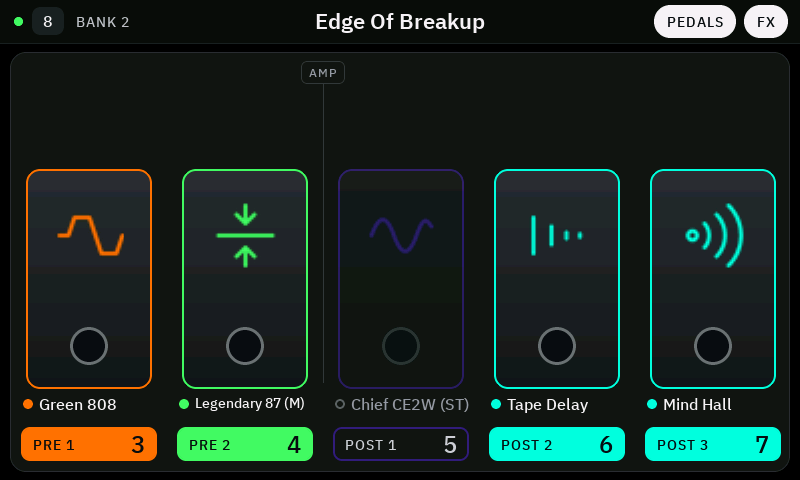
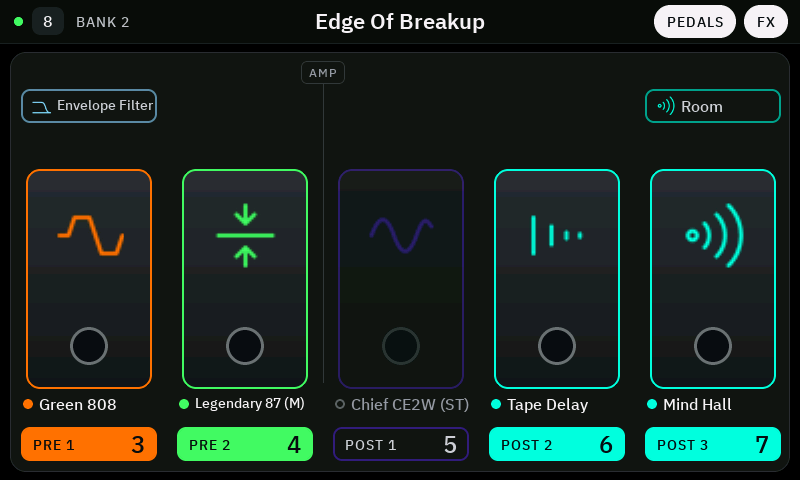
1.22.0 (not released): the pedal view names a slot's other effect, the tempo dialog closes by itself
Pedal view: a slot with a second effect shows the one that waits in a field above the pedal (symbol and name,
outlined in its colour, dimmed while the slot is off); a tap swaps A and B, a long press opens the FX editor.
In the reverb's slot the field sits under the reverb switch's setting.

Tempo dialog: hidden 5 s after it came up, after the last touch and after the last change. The controller
sends "tempo screen off" only if it switched the Nano's tempo screen on itself.

Changed region(s): [[0.0312, 0.1875, 0.2188, 0.2812], [0.8125, 0.1875, 0.9688, 0.2812]]

diff --git a/main/ui.c b/main/ui.c
@@ -83,6 +83,7 @@ static lv_obj_t *s_gig_bar, *s_gig_dot, *s_gig_number, *s_gig_bank, *s_gig_name,
 static lv_obj_t *s_pedals, *s_pv_slot[NANO_FX_SLOTS], *s_pv_image[NANO_FX_SLOTS], *s_pv_drawn[NANO_FX_SLOTS], *s_pv_icon[NANO_FX_SLOTS],
                 *s_pv_led[NANO_FX_SLOTS], *s_pv_name[NANO_FX_SLOTS], *s_pv_key[NANO_FX_SLOTS], *s_pv_cap[NANO_FX_SLOTS], *s_pv_num[NANO_FX_SLOTS],
                 *s_pv_rp, *s_pv_rp_name, *s_pv_rp_num;   // above the reverb's pedal: the setting the reverb switch is on
+static lv_obj_t *s_pv_ab[NANO_FX_SLOTS], *s_pv_ab_icon[NANO_FX_SLOTS], *s_pv_ab_name[NANO_FX_SLOTS];   // above a pedal: the slot's other effect (A / B)
 static bool s_pedal_view;     // chosen (kept by the controller)
 static bool s_pedals_shown;   // on the screen now: chosen, full screen, FX mode
 static lv_obj_t *s_capture_title;
@@ -111,7 +112,8 @@ static bool s_listen_pending;
 static lv_obj_t *s_tempo_button, *s_tempo_button_icon, *s_tempo_button_text;
 static lv_obj_t *s_metro, *s_metro_bpm, *s_metro_scope[2], *s_metro_switch, *s_metro_vol, *s_metro_vol_text, *s_metro_sig;
 static lv_obj_t *s_metro_note[4], *s_metro_sound[2], *s_metro_dots, *s_metro_hint;
-static lv_timer_t *s_metro_beat_timer;
+static lv_timer_t *s_metro_beat_timer, *s_metro_hide_timer;
+static uint32_t s_metro_news_tick;   // when the dialog came up or last got news (see metro_hide)
 static ui_tempo_t s_tempo_ui = { .tempo = 120, .muted = true, .time_sig = 2 };
 static int s_metro_beat;
 static uint32_t s_metro_taps[6];
@@ -923,6 +925,13 @@ static void pedals_show(bool shown)
     for (int i = 0; i < TILES; i++) place_tile(i);
 }
 
+// A tap on the field above a pedal: the slot's other effect (as A | B in the FX editor).
+static void on_pedal_swap(lv_event_t *e)
+{
+    if (lv_tick_elaps(s_gesture_tick) < 150) return;   // end of a swipe, not a tap
+    send('[', (int)(intptr_t)lv_event_get_user_data(e));
+}
+
 static void build_pedals(lv_obj_t *parent)
 {
     s_pedals = lv_obj_create(parent);
@@ -1024,6 +1033,31 @@ static void build_pedals(lv_obj_t *parent)
         s_pv_num[slot] = label(s_pv_key[slot], &ui_font_24, TEXT);
         lv_obj_align(s_pv_num[slot], LV_ALIGN_RIGHT_MID, -10, 0);
     }
+    // A slot with a second effect: the one that waits, above the pedal of the one that runs - a field like the
+    // footswitches', outlined in the waiting effect's colour, with its symbol and name. A tap swaps the two.
+    for (int slot = 0; slot < NANO_FX_SLOTS; slot++) {
+        lv_obj_t *field = lv_obj_create(s_pedals);
+        s_pv_ab[slot] = field;
+        lv_obj_remove_style_all(field);
+        lv_obj_set_size(field, PV_SLOT_W - 20, 34);
+        lv_obj_set_style_radius(field, 9, 0);
+        lv_obj_set_style_border_width(field, 2, 0);
+        lv_obj_set_scrollable(field, false);
+        lv_obj_set_clickable(field, true);
+        lv_obj_set_ext_click_area(field, 8);
+        lv_obj_set_style_opa(field, 190, LV_STATE_PRESSED);
+        lv_obj_add_event_cb(field, on_pedal_swap, LV_EVENT_SHORT_CLICKED, (void *)(intptr_t)slot);
+        lv_obj_add_event_cb(field, on_tile_long, LV_EVENT_LONG_PRESSED, (void *)(intptr_t)(2 + slot));
+        s_pv_ab_icon[slot] = lv_image_create(field);
+        lv_image_set_scale(s_pv_ab_icon[slot], 150);   // the 36 px symbol at 21 px
+        lv_obj_set_style_image_recolor_opa(s_pv_ab_icon[slot], LV_OPA_COVER, 0);
+        lv_obj_align(s_pv_ab_icon[slot], LV_ALIGN_LEFT_MID, 1, 0);
+        s_pv_ab_name[slot] = label(field, &ui_font_16, TEXT);
+        lv_obj_set_size(s_pv_ab_name[slot], PV_SLOT_W - 20 - 40, lv_font_get_line_height(&ui_font_16));
+        lv_label_set_long_mode(s_pv_ab_name[slot], LV_LABEL_LONG_DOT);
+        lv_obj_align(s_pv_ab_name[slot], LV_ALIGN_LEFT_MID, 34, 0);
+        lv_obj_set_hidden(field, true);
+    }
     // The reverb switch with two settings: the one that is on, above the reverb's pedal - a field like the pedals'
     // footswitches (filled while the reverb is on), with the switch's number. A tap is a press of that switch.
     s_pv_rp = lv_obj_create(s_pedals);
@@ -1109,6 +1143,26 @@ static void show_pedals(const nano_state_t *st, const ui_view_t *view)
         int p = tile_position(2 + slot);   // the footswitch that presses it (none: the slot is not on the six-field layout)
         snprintf(text, sizeof(text), "%d", p + 1);
         set_text(s_pv_num[slot], p >= 0 ? text : "");
+        // The slot's other effect (see s_pv_ab): the pedal is the one that runs, the field names the one that waits
+        bool has_b = type && view->ab_b_type[slot], b_runs = has_b && ((view->ab_active >> slot) & 1);
+        set_hidden(s_pv_ab[slot], !has_b);
+        if (has_b) {
+            uint32_t a_type = b_runs ? view->ab_a_type[slot] : type, b_type = view->ab_b_type[slot];
+            uint32_t other = b_runs ? a_type : b_type;   // (A's type is 0 until it has been read)
+            const nano_fx_model_t *waiting = nano_fx_model(other);
+            uint32_t other_color = waiting ? waiting->color : 0x8E9297;
+            const char *other_name = a_type == b_type ? (b_runs ? "1st setting" : "2nd setting") : other ? nano_fx_name(other) : "A";
+            // (the reverb's setting keeps the first row, see above)
+            lv_obj_set_pos(s_pv_ab[slot], slot * PV_SLOT_W + 10, rp && slot == rslot ? 76 : 36);
+            set_color_prop(s_pv_ab[slot], LV_STYLE_BORDER_COLOR, blend(other_color, PANEL_BG, on ? 0.60f : 0.40f));
+            set_hidden(s_pv_ab_icon[slot], waiting == NULL);
+            if (waiting) set_image(s_pv_ab_icon[slot], NANO_ICONS[waiting->icon]);
+            set_color_prop(s_pv_ab_icon[slot], LV_STYLE_IMAGE_RECOLOR, on ? other_color : blend(other_color, PANEL_BG, 0.6f));
+            lv_text_get_size(&size, other_name, &ui_font_16, 0, 0, LV_COORD_MAX, LV_TEXT_FLAG_NONE);
+            set_ptr_prop(s_pv_ab_name[slot], LV_STYLE_TEXT_FONT, size.x > PV_SLOT_W - 20 - 40 ? &ui_font_14 : &ui_font_16);
+            set_text(s_pv_ab_name[slot], other_name);
+            set_color_prop(s_pv_ab_name[slot], LV_STYLE_TEXT_COLOR, on ? 0xC8CCD1 : 0x969AA0);
+        }
     }
 }
 
@@ -1718,9 +1772,25 @@ static void build_picker(lv_obj_t *screen)
 
 static void metro(int what, int value) { send('\'', (what << 24) | (value & 0xFFFFFF)); }
 
+// The dialog goes by itself, as a volume display does: 5 s after it came up, after the last touch on the screen and
+// after the last news from the Nano. The controller is told with 10 (it leaves the Nano's own tempo screen alone).
+#define METRO_HIDE_MS 5000
+static void metro_keep(void) { s_metro_news_tick = lv_tick_get(); }
+static void metro_hide(lv_timer_t *t)
+{
+    (void)t;
+    if (lv_obj_is_hidden(s_metro)) return;
+    uint32_t idle = lv_tick_elaps(s_metro_news_tick), touch = lv_display_get_inactive_time(NULL);
+    if ((touch < idle ? touch : idle) < METRO_HIDE_MS) return;
+    lv_obj_set_hidden(s_metro, true);
+    s_tempo_ui.open = false;
+    metro(10, 0);
+}
+
 static void on_tempo_button(lv_event_t *e)
 {
     metro(0, 0);
+    metro_keep();
     s_tempo_ui.open = true;
     lv_obj_set_hidden(s_metro, false);   // at once; main confirms with ui_set_tempo
     lv_obj_move_foreground(s_metro);
@@ -1808,6 +1878,10 @@ static void metro_dots_update(void)
 void ui_set_tempo(const ui_tempo_t *t)
 {
     lvgl_port_lock(0);
+    // (news: the dialog comes up, or something in it changed - the state alone arrives every few seconds)
+    if (lv_obj_is_hidden(s_metro) || t->tempo != s_tempo_ui.tempo || t->volume_db != s_tempo_ui.volume_db || t->muted != s_tempo_ui.muted ||
+        t->global != s_tempo_ui.global || t->ext_clock != s_tempo_ui.ext_clock || t->time_sig != s_tempo_ui.time_sig ||
+        t->note_len != s_tempo_ui.note_len || t->sound != s_tempo_ui.sound) metro_keep();
     s_tempo_ui = *t;
     // the button: symbol and tempo, green while the metronome is on (filled = on)
     lv_obj_set_hidden(s_tempo_button, !t->supported);
@@ -1890,6 +1964,7 @@ static void build_metro(lv_obj_t *screen)
         lv_obj_set_style_bg_color(dot, lv_color_hex(GREEN), 0);
     }
     s_metro_beat_timer = lv_timer_create(metro_beat, 500, NULL);
+    s_metro_hide_timer = lv_timer_create(metro_hide, 250, NULL);
     lv_timer_pause(s_metro_beat_timer);
     lv_obj_t *tap = button(s_metro, 20, 198, 270, 186, on_metro_tap);
     lv_obj_remove_event_cb(tap, on_metro_tap);

diff --git a/main/main.c b/main/main.c
@@ -4133,6 +4133,7 @@ static void listen_state(void)
 // the screen active (its own tempo screen) opens the dialog without sending and brings its metronome settings.
 static nano_tempo_t s_metro = { .muted = true, .time_sig = 2 };   // the app's defaults: off, 0 dB, 4/4, 1/4, Blip
 static bool s_metro_open, s_metro_dirty;
+static bool s_metro_own;   // the controller sent "tempo screen on" itself: it also sends the "off" (not for the Nano's own screen)
 
 static bool metro_supported(void)
 {
@@ -4228,13 +4229,13 @@ static void metro_send(void)
 }
 
 // arg: what << 24 | value (24 bits, signed): 0 open, 1 close, 2 tempo x 10, 3 tempo step x 10, 4 metronome on / off,
-// 5 volume x 2 (dB), 6 time signature, 7 note, 8 sound, 9 global (1) / preset (0)
+// 5 volume x 2 (dB), 6 time signature, 7 note, 8 sound, 9 global (1) / preset (0), 10 the dialog closed by itself
 static void metro_command(int arg)
 {
     int what = (arg >> 24) & 0xFF, value = (arg << 8) >> 8;
     if (!metro_supported()) return;
     switch (what) {
-    case 0: if (s_metro_open) return; s_metro_open = true; break;
+    case 0: if (s_metro_open) return; s_metro_open = true; s_metro_own = true; break;
     case 1:
         if (!s_metro_open) return;
         s_metro_open = false;
@@ -4251,13 +4252,24 @@ static void metro_command(int arg)
     case 7: if (value >= 0 && value < NANO_NOTE_LEN_COUNT) { s_metro.note_len = value; s_metro_dirty = true; } break;
     case 8: if (value >= 0 && value < NANO_METRO_SOUND_COUNT) { s_metro.sound = value; s_metro_dirty = true; } break;
     case 9: s_state.tempo_global = value != 0; break;
+    case 10:   // the dialog went by itself (5 s without a touch or news): the Nano's own tempo screen stays as it is
+        if (!s_metro_open) return;
+        s_metro_open = false;
+        if (s_metro_own) metro_send();
+        metro_store();
+        metro_show();
+        schedule_refresh(300);
+        return;
     default: return;
     }
     if (s_state.tempo < 40) s_state.tempo = 40;
     if (s_state.tempo > 240) s_state.tempo = 240;
     if (s_metro.volume_db < -60) s_metro.volume_db = -60;
     if (s_metro.volume_db > 9) s_metro.volume_db = 9;
-    if (s_metro_open) metro_send();
+    if (s_metro_open) {
+        metro_send();
+        s_metro_own = true;
+    }
     metro_show();
 }
 
@@ -4276,7 +4288,10 @@ static void metro_from_nano(const nano_tempo_t *t, bool has_screen)
         s_metro_dirty = true;
     }
     if (has_screen && metro_supported()) {
-        if (t->screen_active && !s_metro_open) s_metro_open = true;   // the Nano shows its tempo screen: nothing to send
+        if (t->screen_active && !s_metro_open) {   // the Nano shows its tempo screen: nothing to send
+            s_metro_open = true;
+            s_metro_own = false;
+        }
         else if (!t->screen_active && s_metro_open) { s_metro_open = false; metro_store(); }
     }
     metro_show();

diff --git a/main/ui.h b/main/ui.h
@@ -184,6 +184,7 @@ void ui_set_listening(char kind, int position, const char *name, bool pending);
 
 // Tempo button (top bar) and the tempo / metronome dialog (NanOS 2.3.0). The dialog sends '\'' what << 24 | value
 // (see metro_command in main.c); open: the dialog shows (also when the Nano opened its own tempo screen).
+// It closes by itself 5 s after it came up, after the last touch and after the last change (it sends what = 10 then).
 typedef struct {
     bool supported, open, global, ext_clock, muted;
     float tempo, volume_db;

diff --git a/docs/manual.de.md b/docs/manual.de.md
@@ -15,7 +15,8 @@ Alle Funktionen im Detail. Die kurze bebilderte Anleitung steht im [README](../R
   Alle Namen haben dieselbe Größe.
 - Die Knöpfe der oberen Leiste tragen ihr Wort unter dem Symbol. **Reload** (oben links) liest alles neu vom Nano:
   Preset-Namen, aktuelles Preset und die Library. **Settings** daneben öffnet die
-  [Einstellungen](#einstellungen); **Tempo** (NanOS 2.3) zeigt das Tempo und öffnet das Metronom.
+  [Einstellungen](#einstellungen); **Tempo** (NanOS 2.3) zeigt das Tempo und öffnet das Metronom. Der Dialog
+  schließt sich von selbst, 5 Sekunden nach der letzten Berührung oder Änderung; das Metronom läuft weiter.
 - **Nach links / rechts wischen**: nächstes / vorheriges Preset.
 - **Nach oben wischen – Gig-Ansicht**: die Kacheln füllen den Bildschirm mit größeren Namen, eine schmale Leiste
   oben zeigt Verbindung, Preset-Nummer, Bank, Preset-Name, ungespeicherte Änderungen und den Modus (PRESETS / SCENES / FX).
@@ -24,7 +25,9 @@ Alle Funktionen im Detail. Die kurze bebilderte Anleitung steht im [README](../R
   sobald der Controller im FX-Modus ist – in Signalreihenfolge, der Platz des Amps ist zwischen Pre FX 2 und
   Post FX 1 markiert. Unter jedem Pedal stehen sein Licht, sein Name und sein Fußschalter, in der Effektfarbe gefüllt,
   solange es an ist; ein ausgeschaltetes Pedal steht im Dunkeln. Ein Tipp schaltet den Effekt, ein langer Druck öffnet
-  seinen FX-Editor, wie auf einer Kachel. **PEDALS** nochmal tippen bringt die Kacheln zurück. Fußschalter 1, 2 und 8
+  seinen FX-Editor, wie auf einer Kachel. Hat ein Slot einen
+  [zweiten Effekt](#zweiter-effekt-a-und-b-auf-einem-fx-slot), steht der wartende in einem Feld über dem Pedal,
+  umrandet in seiner Farbe – ein Tipp auf das Feld tauscht die beiden. **PEDALS** nochmal tippen bringt die Kacheln zurück. Fußschalter 1, 2 und 8
   arbeiten wie immer, sie haben in dieser Ansicht nur kein Feld.
 
   <img src="images/39-pedal-view.png" alt="" width="440">

diff --git a/docs/manual.md b/docs/manual.md
@@ -15,15 +15,17 @@ Every function in detail. The short illustrated guide is in the [README](../READ
   names use one size.
 - The buttons of the top bar carry their word under the symbol. **Reload** (top left) reads everything from the
   Nano again: preset names, the current preset and the library. **Settings** next to it opens the
-  [settings screen](#settings); **Tempo** (NanOS 2.3) shows the tempo and opens the metronome.
+  [settings screen](#settings); **Tempo** (NanOS 2.3) shows the tempo and opens the metronome. Its dialog closes
+  by itself 5 seconds after the last touch or change; the metronome keeps playing.
 - **Swipe left / right**: next / previous preset.
 - **Swipe up – gig view**: the tiles fill the screen with larger names, and a slim bar on top shows the
   connection, preset number, bank, preset name, unsaved changes and the mode (PRESETS / SCENES / FX). **Swipe down**: back.
 - **Pedal view**: **PEDALS** in the gig view's bar shows the five FX slots as pedals on a shelf whenever the
   controller is in FX mode – in signal order, with the amp's place marked between Pre FX 2 and Post FX 1. Under each
   pedal are its light, its name and its footswitch, filled in the effect's colour while it is on; a pedal that is
-  off stands in the dark. A tap switches the effect, a long press opens its FX editor, as on a tile. Tap **PEDALS**
-  again for the tiles. Footswitches 1, 2 and 8 work as always, they just have no field in this view.
+  off stands in the dark. A tap switches the effect, a long press opens its FX editor, as on a tile. A slot with a
+  [second effect](#second-effect-a-and-b-on-an-fx-slot) names the one that waits in a field above the pedal, outlined
+  in its colour – a tap on the field swaps the two. Tap **PEDALS** again for the tiles. Footswitches 1, 2 and 8 work as always, they just have no field in this view.
 
   <img src="images/39-pedal-view.png" alt="" width="440">
 
